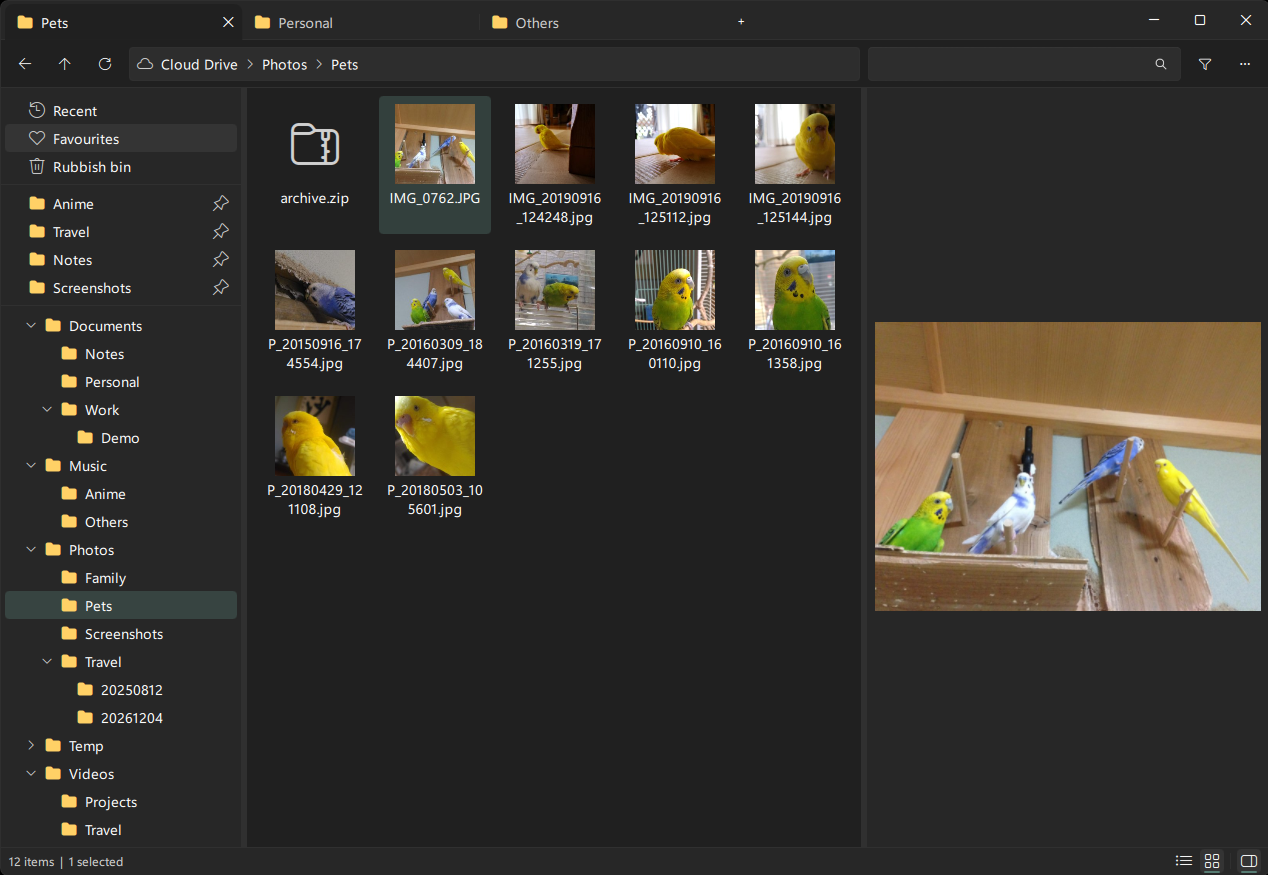
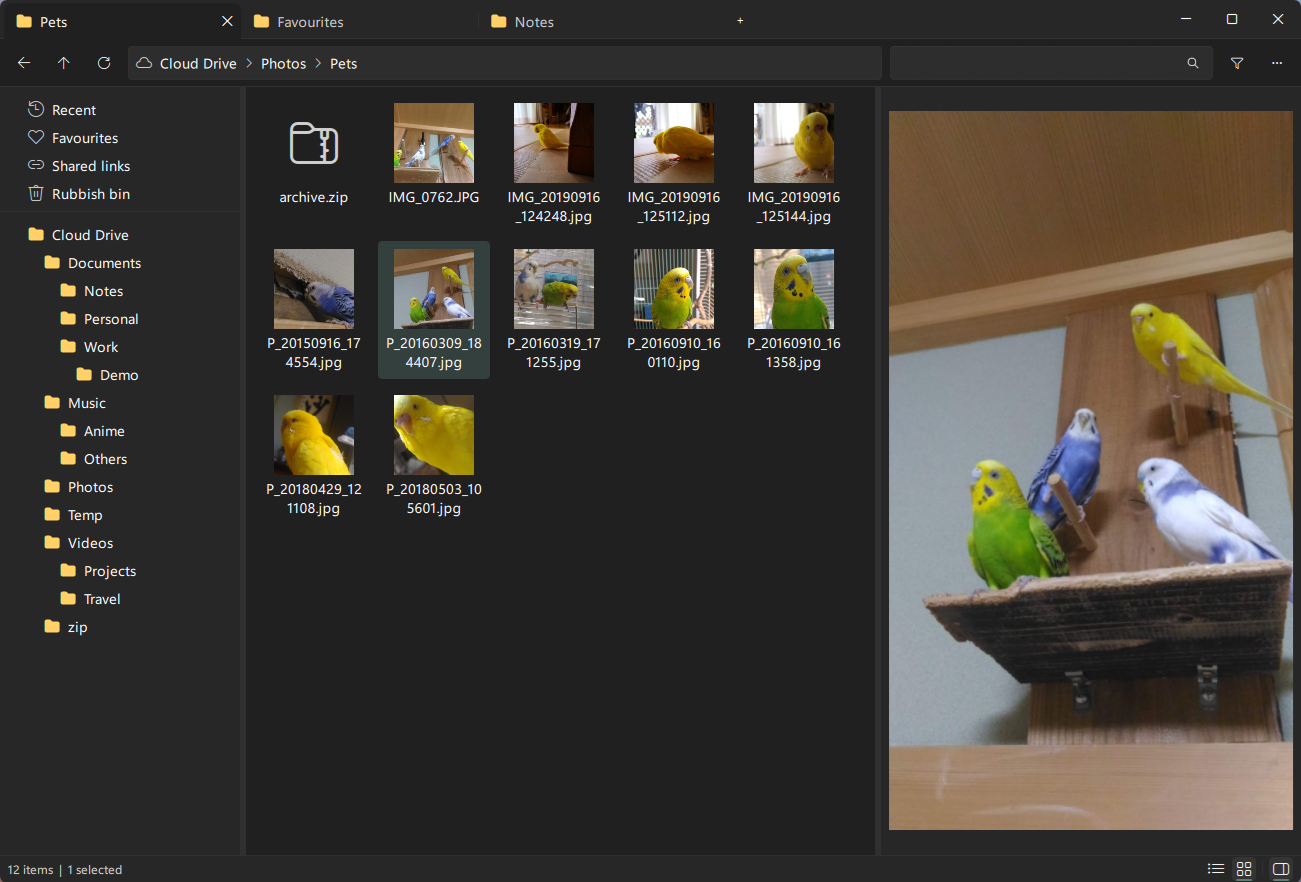
Update README.md

diff --git a/README.md b/README.md
@@ -9,7 +9,7 @@ for your cloud files, not a sync client.
 - Thumbnails and previews without downloading, camera RAW included
 - Images, video, audio and PDFs opened in a viewer of their own
 - Search and filter across everything you have
-- Public links, favourites, and a Rubbish bin you can restore from
+- Sharing, favourites, and a Rubbish bin you can restore from
 - Jump to the matching file in a paired local folder
 
 ![](./img/screenshot.png)
@@ -62,16 +62,15 @@ parallel, with per-file progress and cancellation in the transfer flyout.
 
 ### Side panel views
 
-Quick access for the folders you pin, plus Favourites and Recent.
+Quick access for the folders you pin, plus Favourites, Recent and Shared links.
 
-### Rubbish bin
+### Sharing
 
-Deleted items go here rather than disappearing. Restore them, or delete them for good.
+![](./img/sharing.png)
 
-### Public links
-
-Create, copy and remove MEGA share links from the context menu. Files that already have one are
-marked in the list.
+Create, copy and remove MEGA share links from the context menu's Share submenu, and give them an
+expiry date or a password (both need a Pro plan). Files that already have one are marked in the
+list.
 
 ### Local folder
 
@@ -81,7 +80,6 @@ local file, or reveal it in Windows Explorer. The two are never synced.
 ## Roadmap
 
 - [ ] Live updates, watching the server for changes made elsewhere
-- [ ] More control over public links (visibility, expiry, and so on)
 - [ ] Albums
 - [ ] Localisation, starting with Japanese
 
